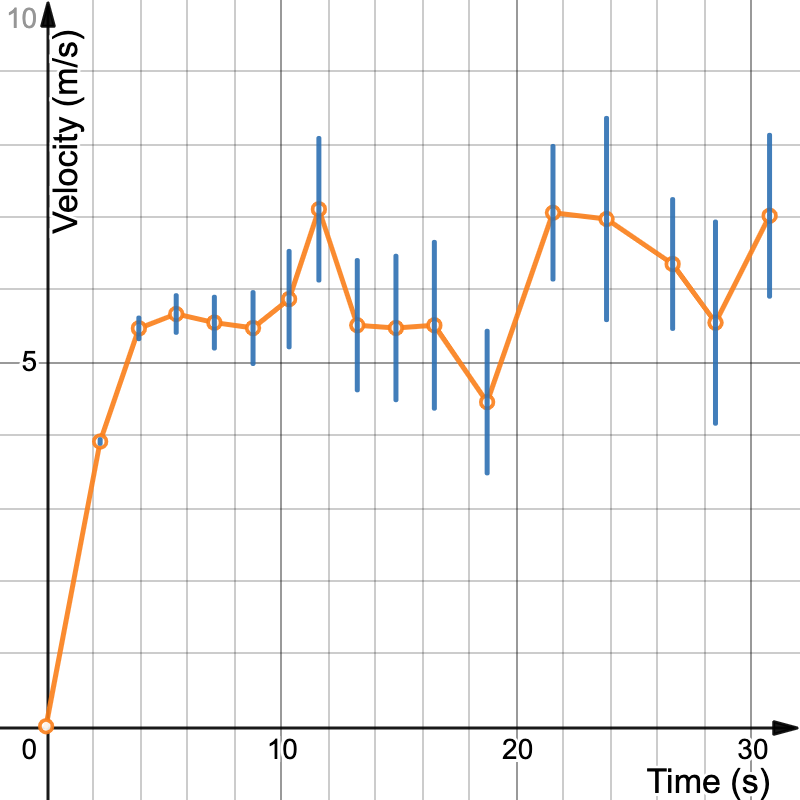
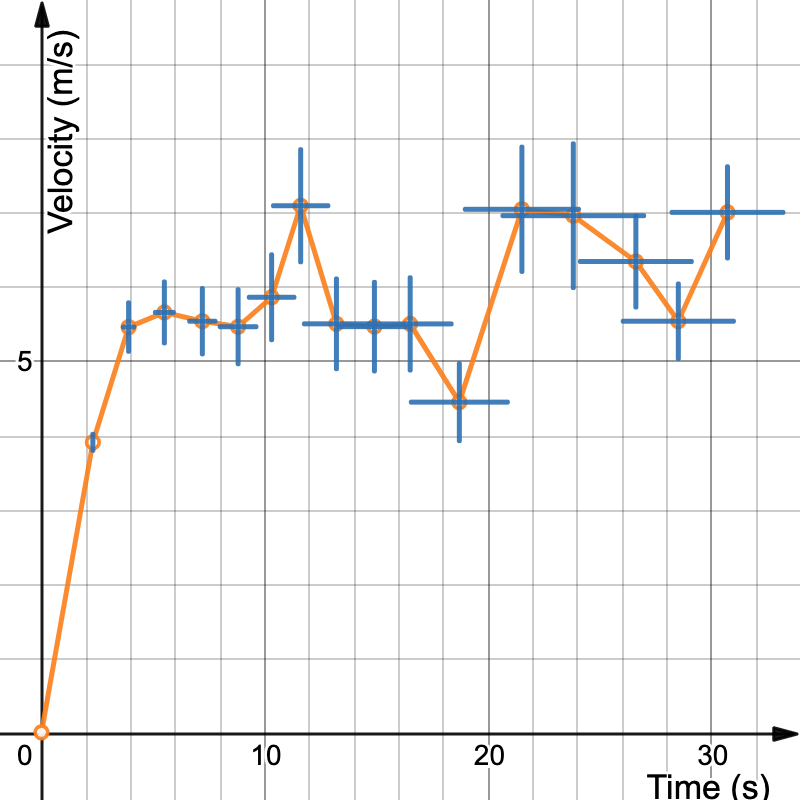
new tables

Changed region(s): [[0.0, 0.0, 1.0, 1.0]]

diff --git a/body.tex b/body.tex
@@ -162,41 +162,54 @@ Subjects were first gathered and given the PAR-Q questionnare form to read and s
 % [include time, distance. Uncertainty for distance should be +- 0.05 m compounding for the first 100m, then just use range / 2 for the last 100m]
 \begin{table}[H]
     \centering
-    \caption{The effect of time \((s)\) on distance \((m)\) athlete travelled}
-    \begin{tabular}{@{}cccccc@{}} \toprule
-                         & \multicolumn{4}{c}{Time \((s)\)}                                             \\ \cmidrule(r){2-5}
-        Distance (\(m\)) & Trial 1                          & Trial 2 & Trial 3 & Average & Uncertainty \\ \midrule
-        0.0              & 0.0                              & 0.0     & 0.0     & 0.0     & 0.0         \\
-        9.0              & 2.2                              & 2.3     & 2.3     & 2.3     & 0.0         \\
-        18.0             & 3.7                              & 4.0     & 4.2     & 3.9     & 0.2         \\
-        27.0             & 5.1                              & 5.5     & 5.9     & 5.5     & 0.4         \\
-        36.0             & 6.6                              & 7.1     & 7.7     & 7.2     & 0.6         \\
-        45.0             & 8.0                              & 8.7     & 9.6     & 8.8     & 0.8         \\
-        54.0             & 9.4                              & 10.2    & 11.4    & 10.3    & 1.0         \\
-        63.0             & 10.5                             & 11.4    & 12.9    & 11.6    & 1.2         \\
-        72.0             & 11.9                             & 13.0    & 14.8    & 13.2    & 1.4         \\
-        81.0             & 13.4                             & 14.6    & 16.6    & 14.9    & 1.6         \\
-        90.0             & 14.9                             & 16.1    & 18.5    & 16.5    & 1.8         \\
-        100.0            & 16.8                             & 18.3    & 21.1    & 18.7    & 2.1         \\
-        119.8            & 19.2                             & 21.2    & 24.3    & 21.5    & 2.5         \\
-        135.6            & 20.6                             & 23.9    & 26.9    & 23.8    & 3.1         \\
-        153.5            & 24.3                             & 26.4    & 29.2    & 26.6    & 2.5         \\
-        163.6            & 26.3                             & 27.9    & 31.2    & 28.5    & 2.5         \\
-        179.7            & 28.6                             & 30.1    & 33.5    & 30.7    & 2.5         \\
+    \caption{The effect of time \((s)\) on distance \((m)\) athlete travelled. (Where \(\sigma\) stands for uncertainty)}
+    \begin{tabular}{@{}ccccccc@{}} \toprule
+                         & \multicolumn{4}{c}{Time \((s)\)}                                                                         \\ \cmidrule(r){2-5}
+        Distance (\(m\)) & \(T_1\)                          & \(T_2\) & \(T_3\) & \(T_{average}\) & \(\sigma_{T}\) & \(\sigma_{D}\) \\ \midrule
+        0.0              & 0.0                              & 0.0     & 0.0     & 0.0             & 0.0            & 0.0            \\
+        9.0              & 2.2                              & 2.3     & 2.3     & 2.3             & 0.1            & 0.1            \\
+        18.0             & 3.7                              & 4.0     & 4.2     & 3.9             & 0.2            & 0.2            \\
+        27.0             & 5.1                              & 5.5     & 5.9     & 5.5             & 0.4            & 0.2            \\
+        36.0             & 6.6                              & 7.1     & 7.7     & 7.2             & 0.6            & 0.3            \\
+        45.0             & 8.0                              & 8.7     & 9.6     & 8.8             & 0.8            & 0.3            \\
+        54.0             & 9.4                              & 10.2    & 11.4    & 10.3            & 1.0            & 0.4            \\
+        63.0             & 10.5                             & 11.4    & 12.9    & 11.6            & 1.2            & 0.4            \\
+        72.0             & 11.9                             & 13.0    & 14.8    & 13.2            & 1.5            & 0.5            \\
+        81.0             & 13.4                             & 14.6    & 16.6    & 14.9            & 1.6            & 0.5            \\
+        90.0             & 14.9                             & 16.1    & 18.5    & 16.5            & 1.9            & 0.6            \\
+        100.0            & 16.8                             & 18.3    & 21.1    & 18.7            & 2.2            & 0.6            \\
+        119.8            & 19.2                             & 21.2    & 24.3    & 21.5            & 2.6            & 1.3            \\
+        135.6            & 20.6                             & 23.9    & 26.9    & 23.8            & 3.1            & 5.9            \\
+        153.5            & 24.3                             & 26.4    & 29.2    & 26.6            & 2.5            & 3.8            \\
+        163.6            & 26.3                             & 27.9    & 31.2    & 28.5            & 2.5            & 3.1            \\
+        179.7            & 28.6                             & 30.1    & 33.5    & 30.7            & 2.5            & 5.3
     \end{tabular}
 \end{table}
 
 \section{Sample Calculations}
 
 \begin{align*}
-    \intertext{\textbf{Average Distance Travelled}}
+    \intertext{\textbf{Average Time}}
     \intertext{The formula for the average time, \(T_{average}\) is given by}
-    T_{average}          & = \frac{T_{1}+T_{2}+T_{3}}{3}
+    T_{average} & = \frac{T_{1}+T_{2}+T_{3}}{3}
+    \intertext{\textbf{Uncetainty of Time \(\sigma_T\)}}
+    \intertext{The standard deviation of the time values was used to represent the uncertainty of time. This value was obtained using a calculator.}
     \intertext{\textit{Example} calculation of average time given three time values for a distance of \(18\ m\)}
-                         & = \frac{3.7 + 4.0 + 4.2}{3} = 3.9
+                & = \frac{3.7s + 4.0s + 4.2s}{3} = \boxed{3.9s}
     \intertext{\textbf{Velocity}}
-    \intertext{The formula for velocity given distance and time, \(V\) is given by}
-    \sigma_{T_{average}} & = \frac{\sigma_{T_{1}} + \sigma_{T_{2}} + \sigma_{T_{3}}}{3}
+    \intertext{The formula for velocity given distance and time, \(V\) is given by dividing the distance travelled by the change in time}
+    V           & = \frac{\Delta D}{\Delta t}
+    \intertext{\textit{Example} calculation of velocity given distance and time pair \(t_1=2.3s\), \(d_1=9.0m\), \(t_2=3.9s\), \(d_2=18.0m\)}
+    \Delta D    & = d_2-d_1 = 18.0m-9.0m = 9m                   \\
+    \Delta t    & = t_2-t_1 = 3.9s-2.3s = 1.6s                  \\
+    V           & = \frac{9m}{1.6s} = \boxed{5.5\frac{m}{s}}
+    \intertext{\textbf{Propogation of uncertainty for distance over time to velocity}}
+    \intertext{To get the velocity of the athlete, we subtracted two values of distance and two time values, then divided the change in distance by change as shown in the equation above. Because both the time and distance had error values, error propogation for both subtraction and division of values must be factored in, which is given by the three following formulas below}
+    \sigma_{d}&=\sigma_{d1}+\sigma_{d2}\\
+    \sigma_{t}&=\sigma_{t1}+\sigma_{t2}\\
+    \sigma_{V}&=\sqrt{\left(\frac{\sigma_{d}}{\Delta d}\right)^{2}+\left(\frac{\sigma_{t}}{\Delta t}\right)^{2}}
+    \intertext{The above formula basically converts the uncertainty of distance and time as a percentage and then adds them together.}
+    \intertext{\textit{Example} calculation for propogation of uncertainty of velocity given distance and time pair \(t_1=2.3s\), \(d_1=9.0m\), \(t_2=3.9s\), \(d_2=18.0m\)}
 \end{align*}
 
 \section{Calculated Data Table}
@@ -207,25 +220,25 @@ Subjects were first gathered and given the PAR-Q questionnare form to read and s
     % the X in tabularx expands cell to fill
     % >{} applies command to every single cell
     \caption{The effect of time \((s)\) on athlete velocity \((\frac{m}{s})\)}
-    \begin{tabular}{@{}ccc@{}} \toprule
-        {Time \((s)\)} & {Velocity \((\frac{m}{s})\)} & {SD} \\ \midrule
-        0.0            & 0.0                          & 0.0  \\
-        2.3            & 3.9                          & 0.0  \\
-        3.9            & 5.5                          & 0.1  \\
-        5.5            & 5.7                          & 0.3  \\
-        7.2            & 5.5                          & 0.3  \\
-        8.8            & 5.5                          & 0.5  \\
-        10.3           & 5.9                          & 0.7  \\
-        11.6           & 7.1                          & 1.0  \\
-        13.2           & 5.5                          & 0.9  \\
-        14.9           & 5.5                          & 1.0  \\
-        16.5           & 5.5                          & 1.1  \\
-        18.7           & 4.5                          & 1.0  \\
-        21.5           & 7.1                          & 0.9  \\
-        23.8           & 7.0                          & 1.4  \\
-        26.6           & 6.4                          & 0.9  \\
-        28.5           & 5.6                          & 1.4  \\
-        30.7           & 7.0                          & 1.1
+    \begin{tabular}{@{}cccc@{}} \toprule
+        {Time \((s)\)} & {Velocity \((\frac{m}{s})\)} & {\(\sigma_{V}\)} & {\(\sigma_{T}\)} \\ \midrule
+        0.0            & 0.0                          & 0.0              & 0.0              \\
+        2.3            & 3.9                          & 0.1              & 0.0              \\
+        3.9            & 5.5                          & 0.3              & 0.2              \\
+        5.5            & 5.7                          & 0.4              & 0.4              \\
+        7.2            & 5.5                          & 0.4              & 0.6              \\
+        8.8            & 5.5                          & 0.5              & 0.8              \\
+        10.3           & 5.9                          & 0.6              & 1.0              \\
+        11.6           & 7.1                          & 0.8              & 1.2              \\
+        13.2           & 5.5                          & 0.6              & 1.4              \\
+        14.9           & 5.5                          & 0.6              & 1.6              \\
+        16.5           & 5.5                          & 0.6              & 1.8              \\
+        18.7           & 4.5                          & 0.5              & 2.1              \\
+        21.5           & 7.1                          & 0.8              & 2.5              \\
+        23.8           & 7.0                          & 1.0              & 3.1              \\
+        26.6           & 6.4                          & 0.6              & 2.5              \\
+        28.5           & 5.6                          & 0.5              & 2.5              \\
+        30.7           & 7.0                          & 0.6              & 2.5
     \end{tabular}
 \end{table}
 
